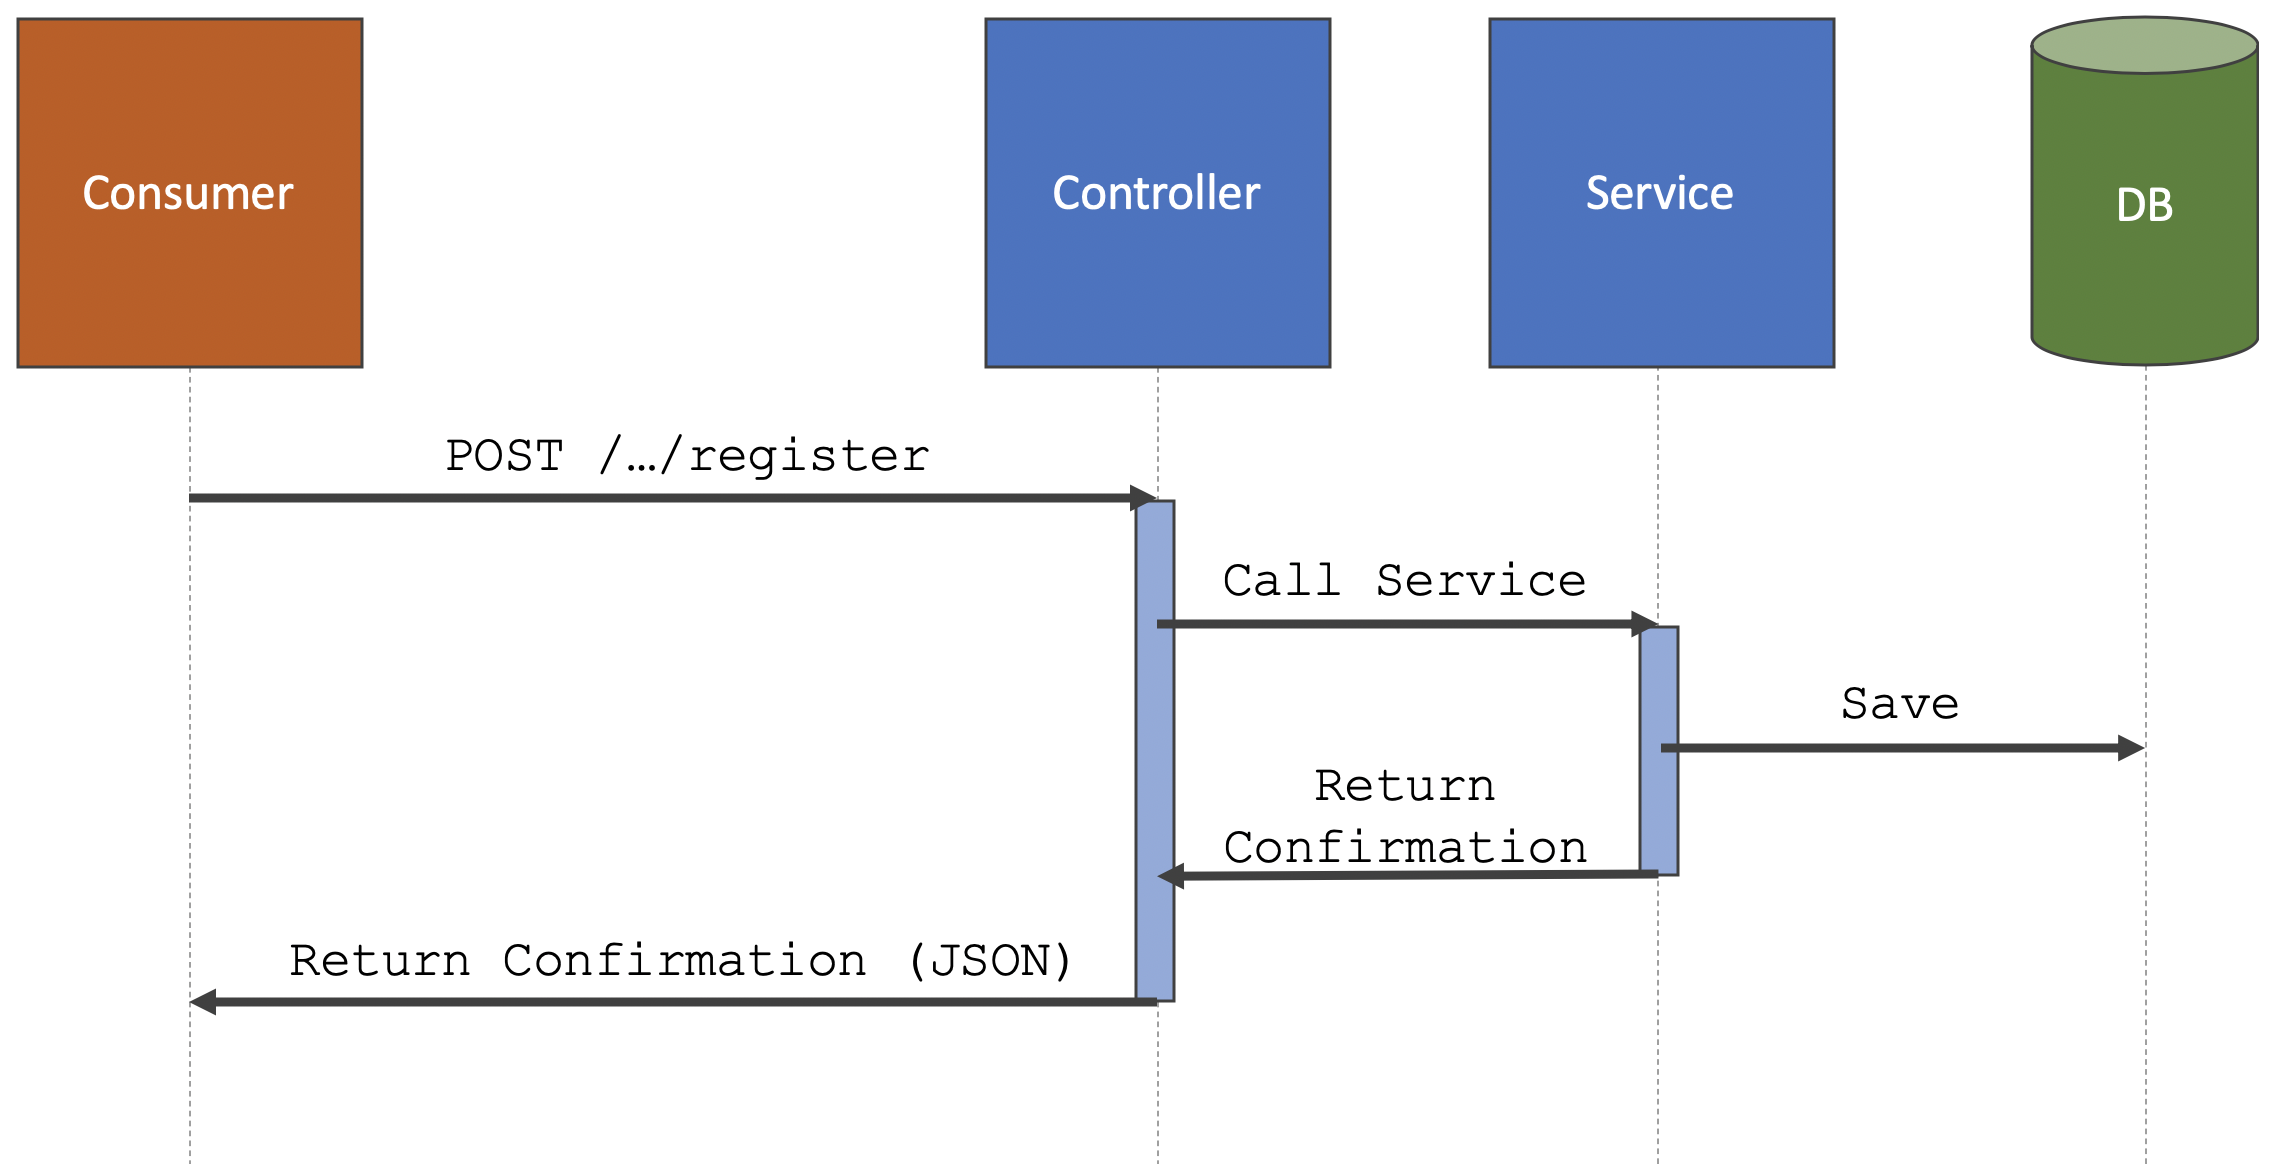
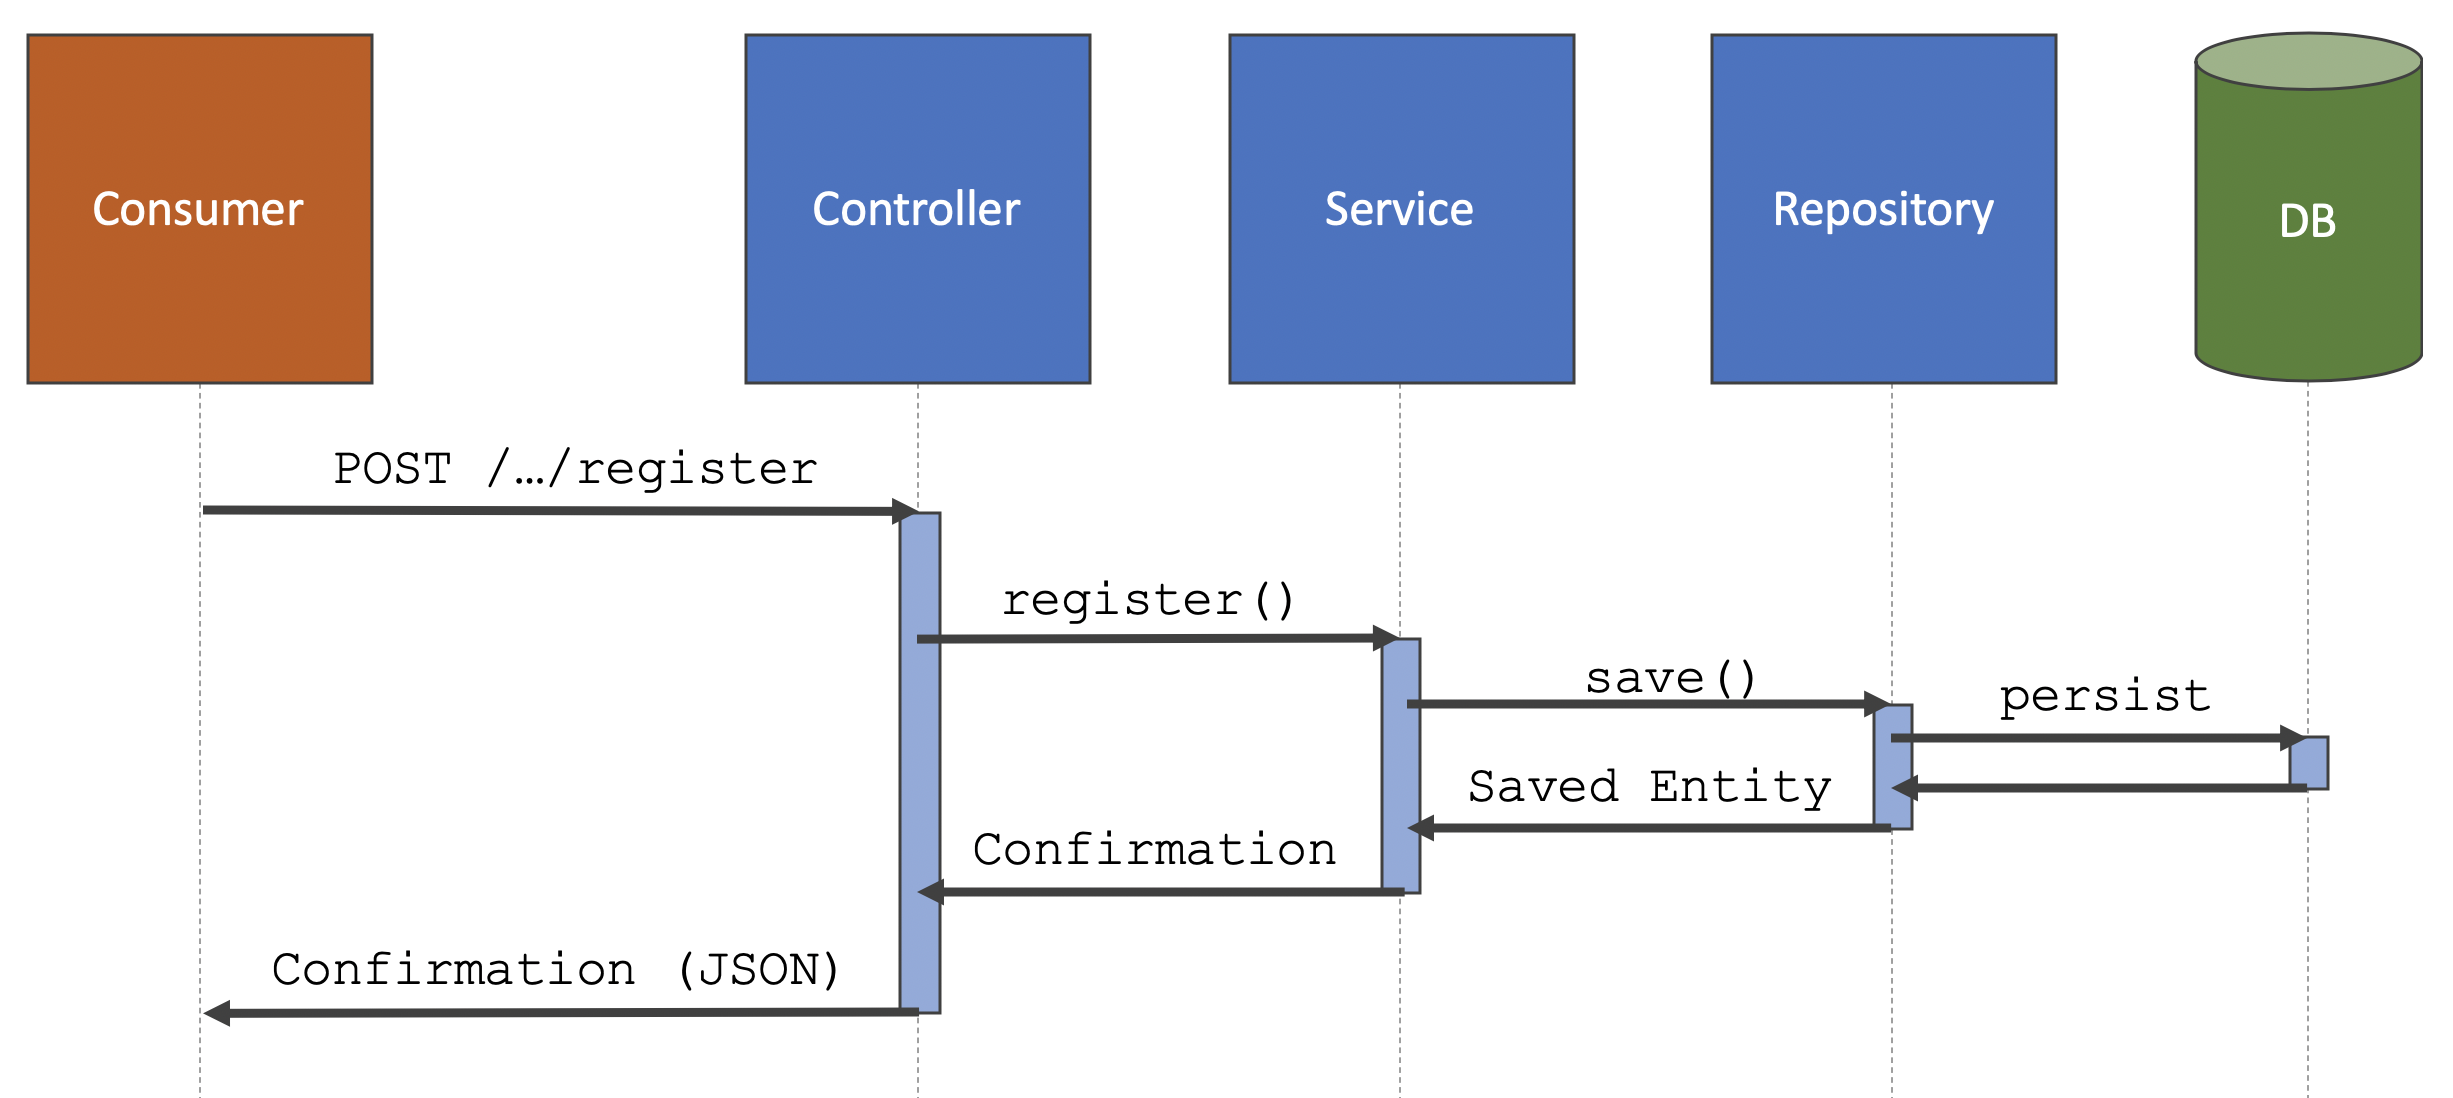
Update notes

diff --git a/docs/05-amqp/05-register.md b/docs/05-amqp/05-register.md
@@ -75,6 +75,20 @@ The service will process the registration and will reply to the controller.  The
 
 ![Contact-Us-Controller-Service-Exchange-Of-Objects.png]({{ '/assets/images/Contact-Us-Controller-Service-Exchange-Of-Objects.png' | absolute_url }})
 
+The service will use a repository to interact with the database.  The object that is received from the controller is mapped to an entity, which is then passed to the repository.  The service needs to first verify that the event exists and is not expired.  In these two cases, the service should simply return an empty optional.
+
+{% include custom/pending.html details="Missing image" %}
+
+In this example, we have two entities.
+* Events
+* Attendees
+
+One or more attendees may attend an event.  We need to represent these into two tables, as shown next.
+
+{% include custom/pending.html details="Missing image" %}
+
+We can take advantage of JPA and use one repository to persist both the events and attendees entities.
+
 ## Controller
 
 We will start from the frontend, the controller, and we will work our way back.
@@ -571,4 +585,12 @@ We will start from the frontend, the controller, and we will work our way back.
    }
    ```
 
-The controller is complete.  It parses the request into Java objects and invokes the service and the reply back to the attendee based on the service's response.
+The controller is complete.  It parses the request into Java objects and invokes the service and then reply to the attendee based on the service's response.
+
+## Service
+
+{% include custom/pending.html %}
+
+## Repository
+
+{% include custom/pending.html %}
